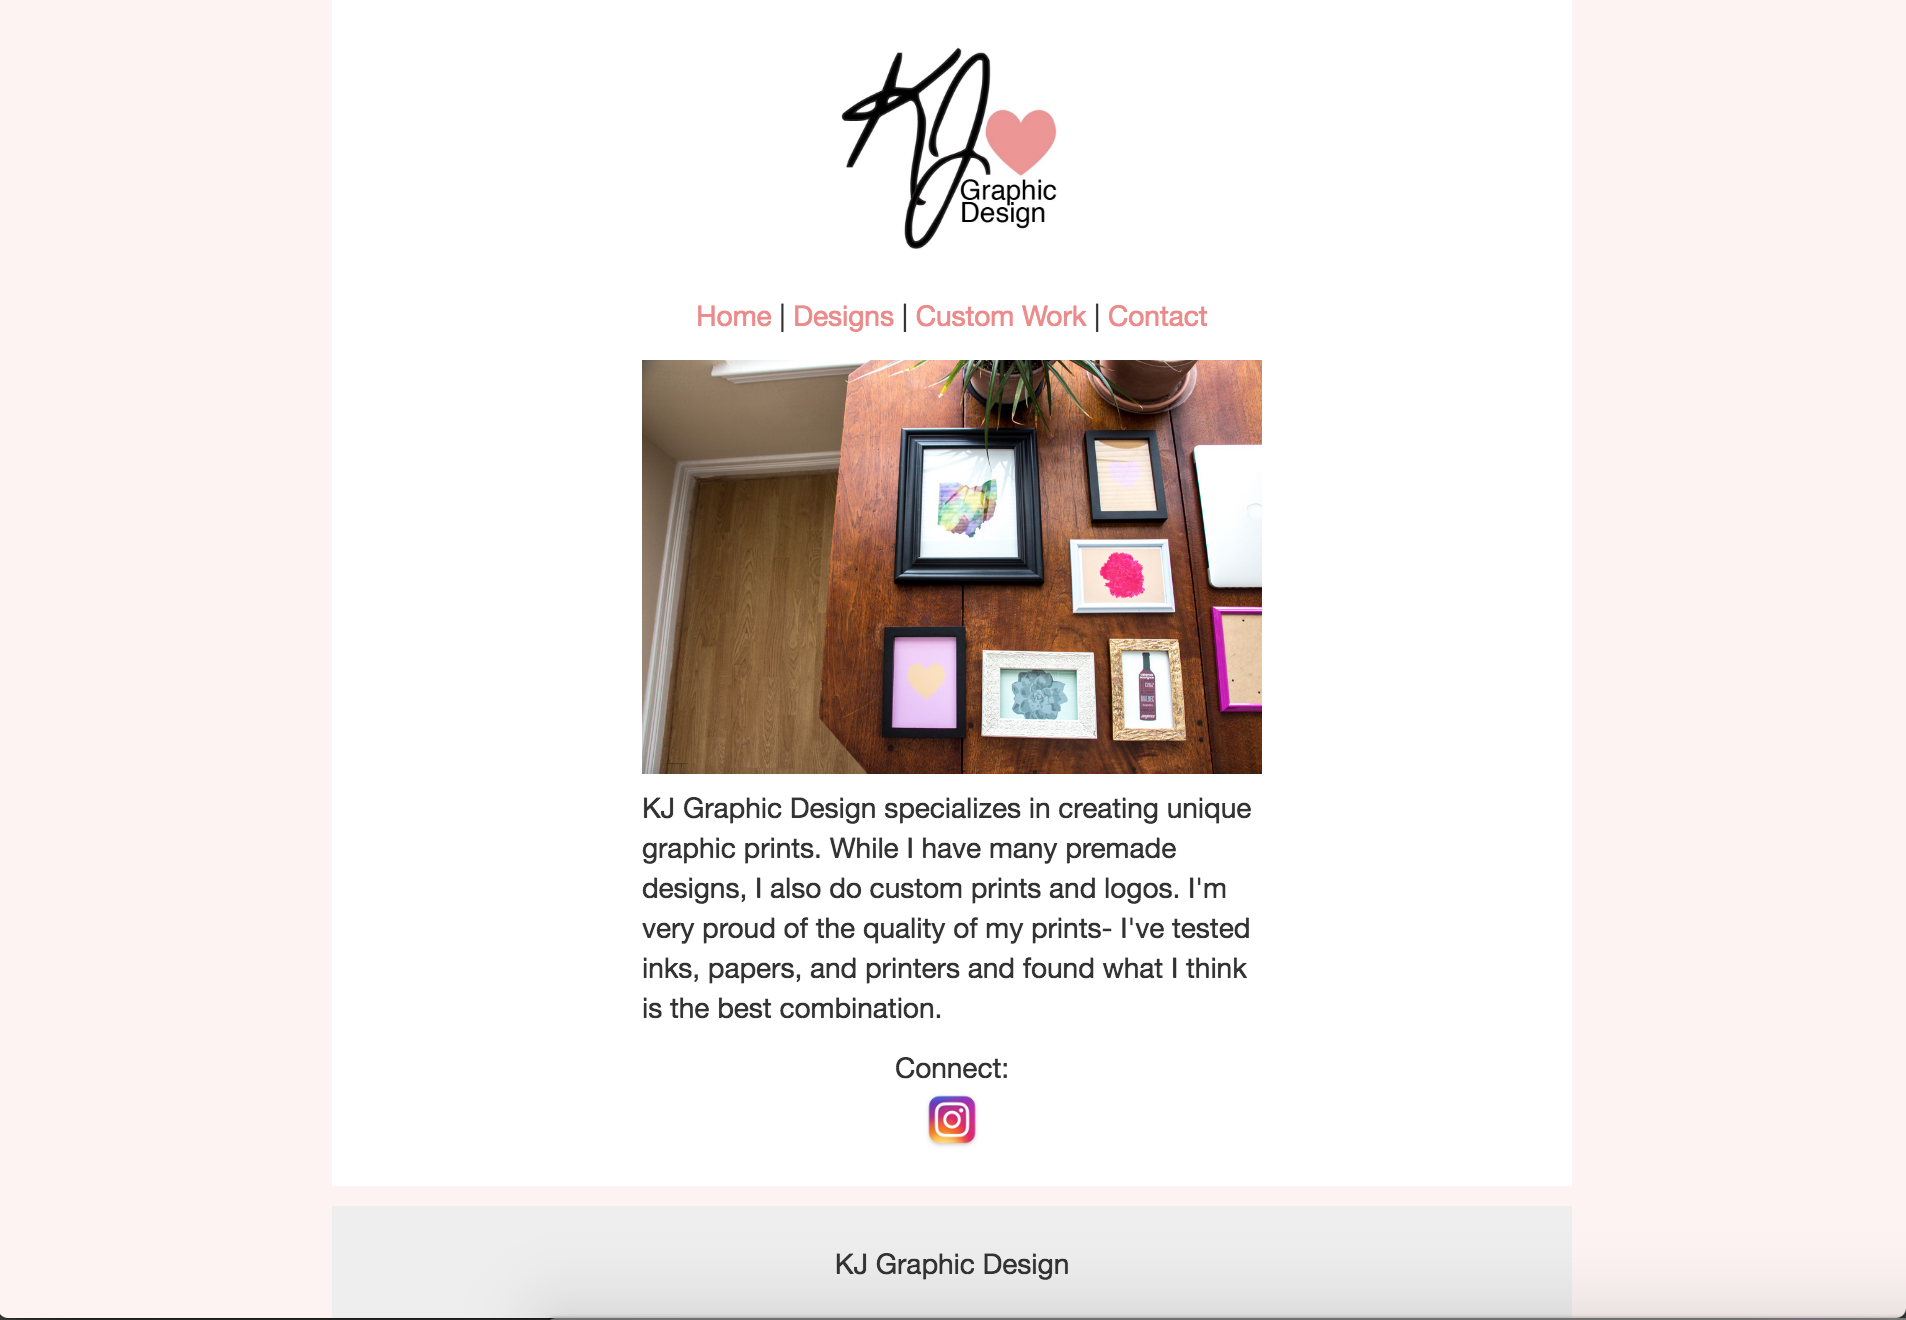
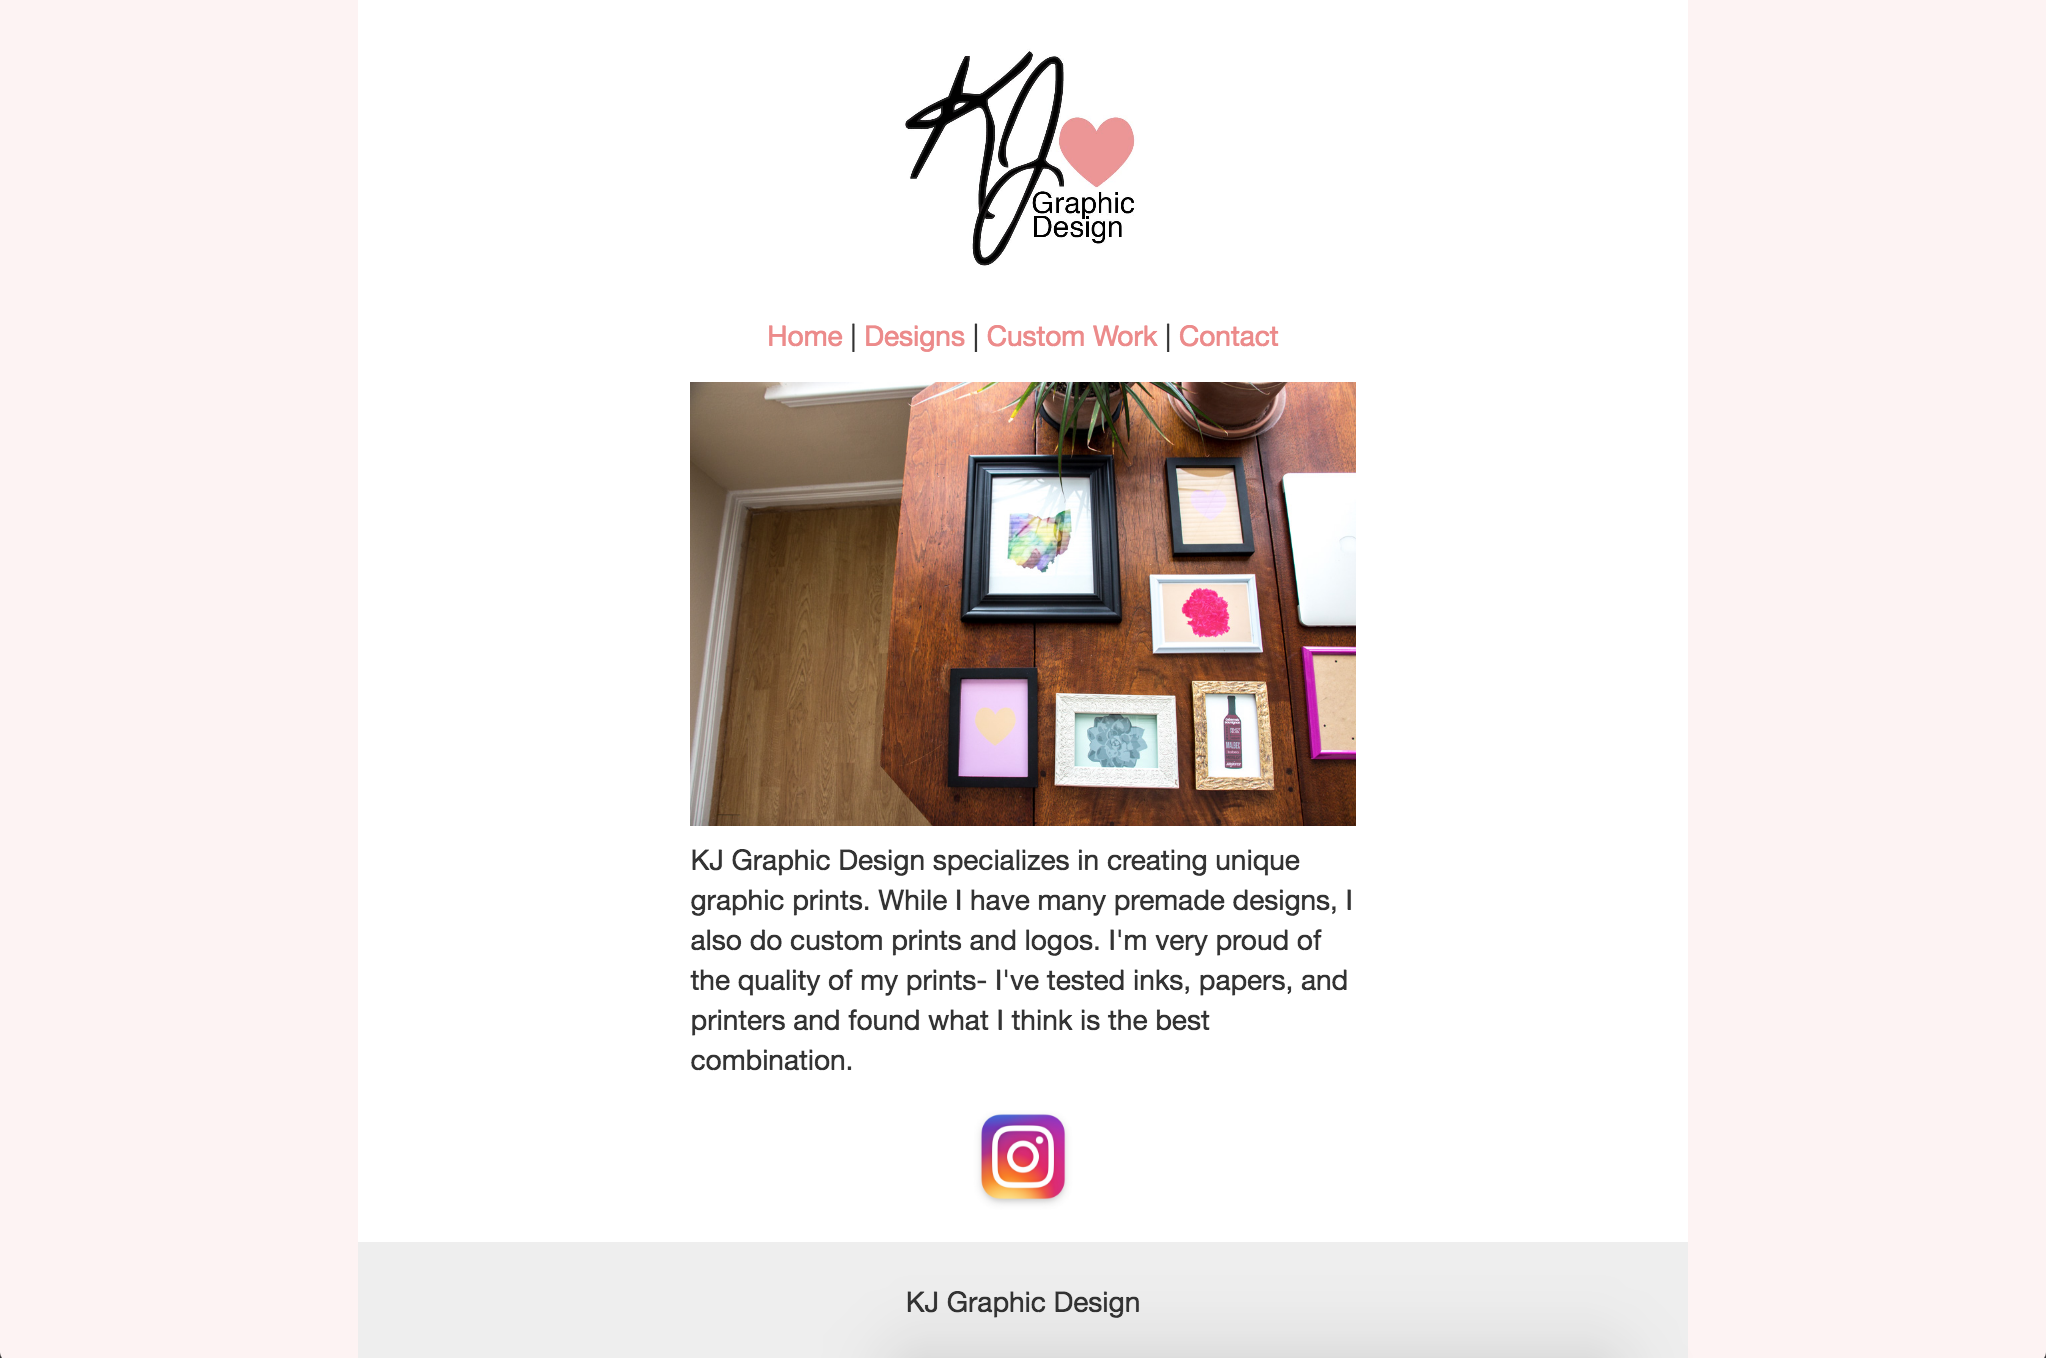
played with modal spacing. changed kjgd modal image

Changed region(s): [[0.3095, 0.0311, 0.681, 0.8076], [0.0, 0.9318, 1.0, 1.0], [0.4643, 0.8076, 0.5262, 0.9008]]

diff --git a/main.css b/main.css
@@ -237,14 +237,16 @@ a:visited {
 
 .projectModalInfo h3{
   font-size: 1.3em;
-  margin: 1%;
+  margin-bottom: 0px;
+  margin-top: 0px;
   color: #2e3641;
   font-weight: bold;
+
 
 }
 
 .projectModalInfo p {
-  margin-top: 1%;
+  margin-top: 0px;
   margin-left: 3%;
 
 }
